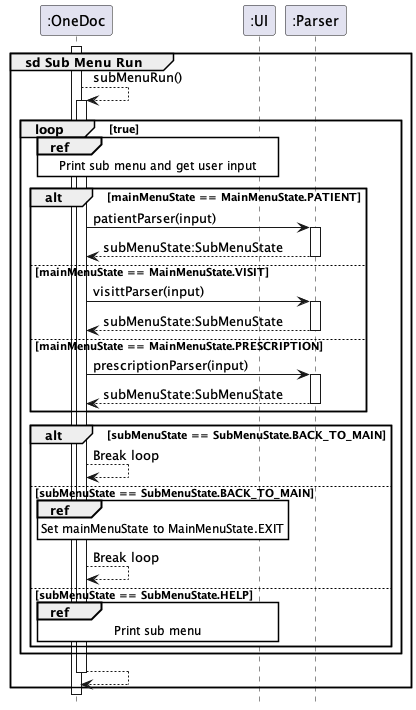
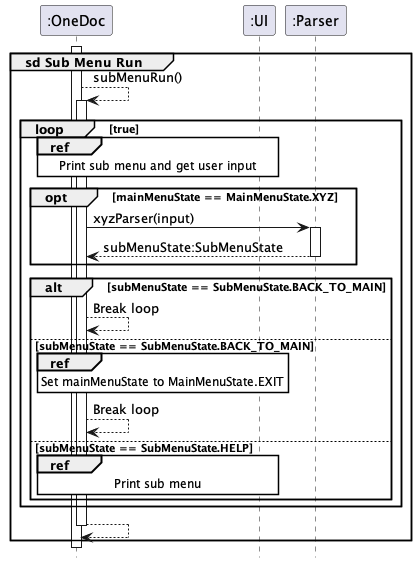
Simplify the sequence diagrams and align the images to top

Changed region(s): [[0.0, 0.0, 1.0, 0.9964], [0.75, 0.7549, 0.7812, 0.7851]]

diff --git a/docs/DeveloperGuide.md b/docs/DeveloperGuide.md
@@ -36,9 +36,12 @@ The object diagram below shows how are the instances of the components are conne
 #### Interaction between the architecture components 
 
 The following two sequence diagrams shows how the main flow of the app is navigating between main menu and the three sub
-menus. `OneDoc` component mainly interacts with `UI` and `Parser` components.
+menus. `OneDoc` component mainly interacts with `UI` and `Parser` components. (Xyz is a placeholder for `Patient`,
+`Visit` or `Prescription`. For example for `Patient`, the main menu state enum is `MainMenuState.PATIENT` and the parser
+function is `patientParser(input)`)
 
-![](images/OneDocSequenceDiagram.png) ![](images/OneDocSubMenuRefSequenceDiagram.png)
+<img align="top" src="images/OneDocSequenceDiagram.png">
+<img align="top" src="images/OneDocSubMenuRefSequenceDiagram.png">
 
 The sequence diagram below shows how the components interact with each other for the scenario where the user issues the
 command `activate x/1` in the Prescription Sub Menu. 
